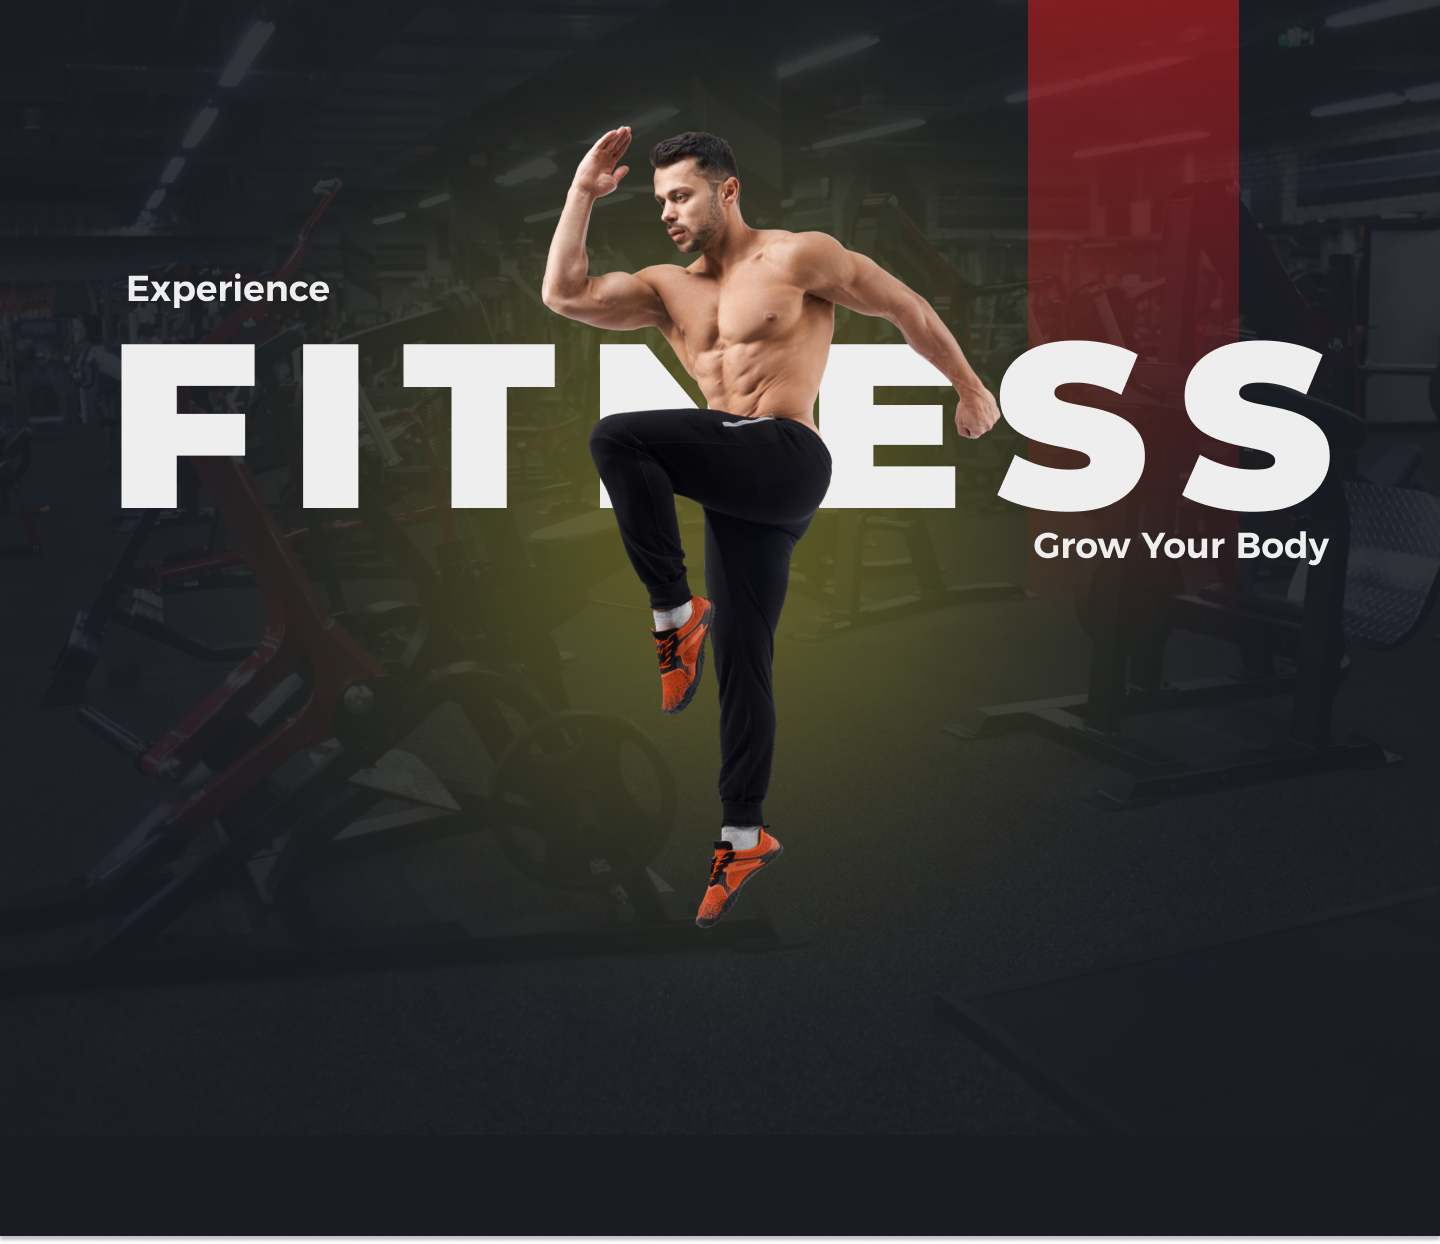
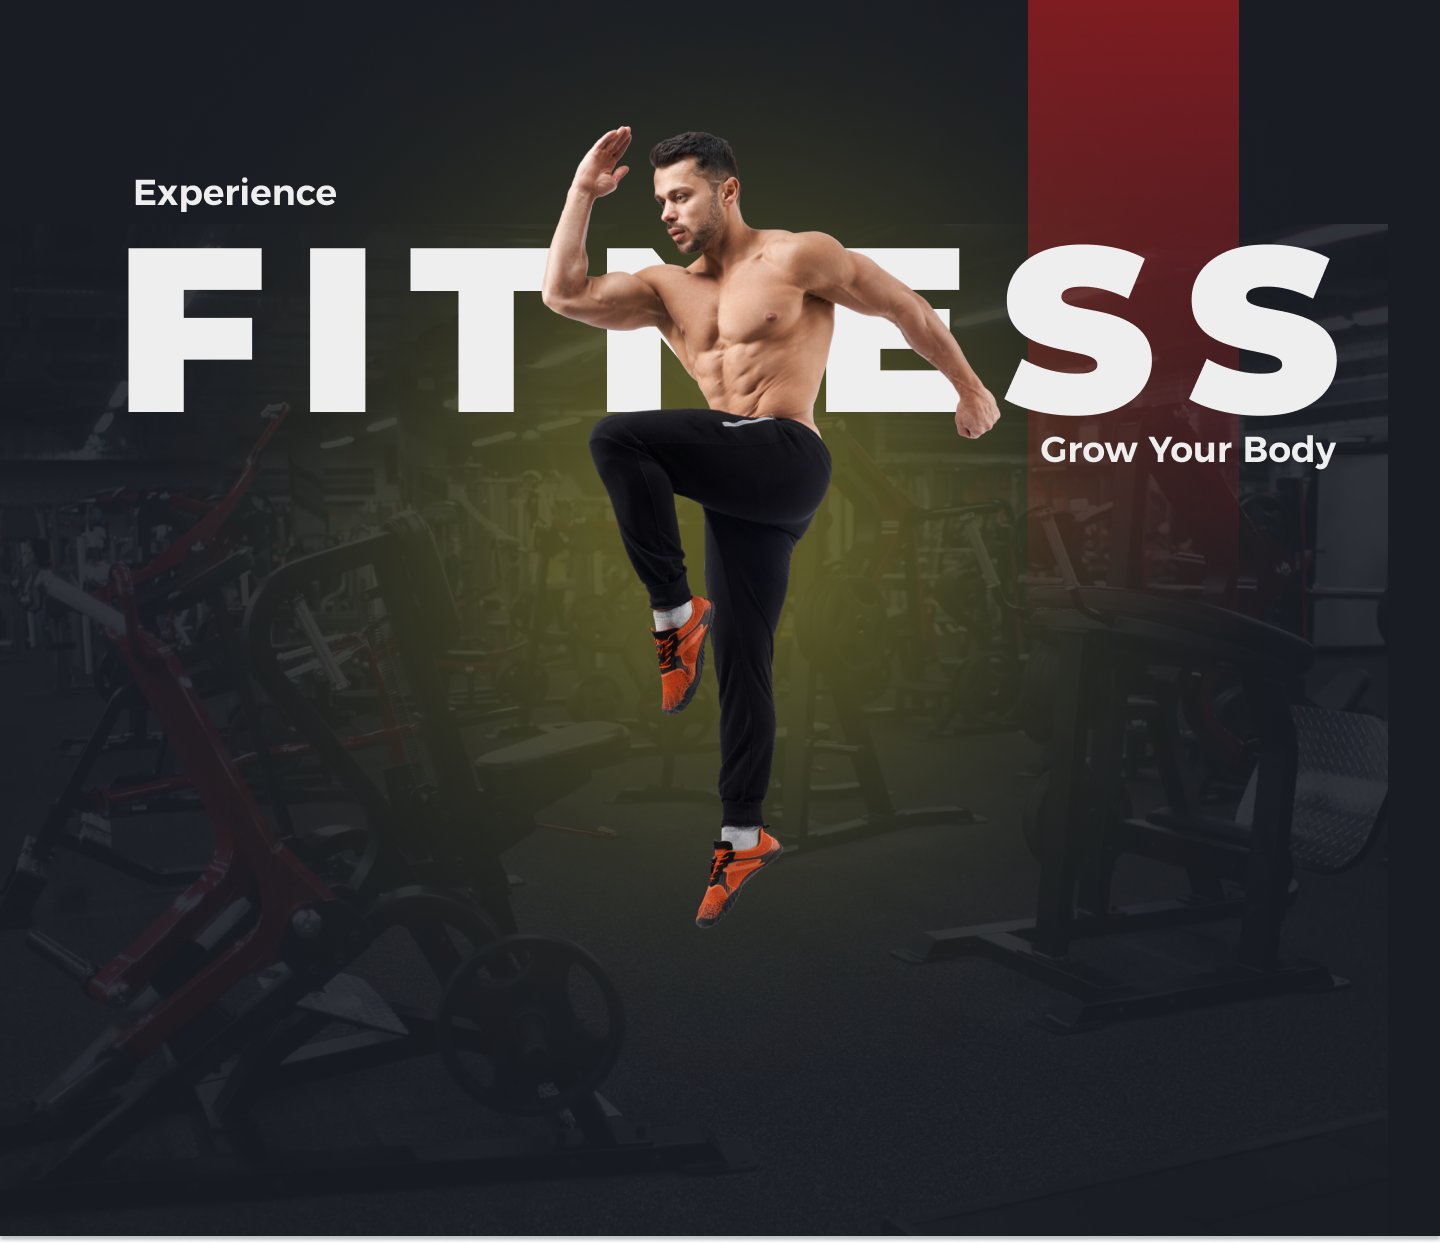
fdf,lzf

Changed region(s): [[0.5625, 0.1833, 0.9375, 0.4582], [0.0625, 0.1222, 0.5, 0.4277], [0.4062, 0.1833, 0.4688, 0.2138]]

diff --git a/css/responsive.css b/css/responsive.css
@@ -14,20 +14,93 @@
 @media only screen and (min-width:1920px) {
 
   .container-fluid {
-    width: 1820px;
+    width: 1903px;
     margin: auto;
+    padding: 0;
   }
+  a.navbar-brand {
+    padding-left: 40px;
+}
   .secover {
     padding: 193px 0px 163px 0px !important; 
 }
 .paddhero2 {
-  padding-top: 573px;
+  padding-top: 553px;
+  padding-left: 50px;
 }
 .bg-tra {
-  margin-top: -122px !important;
+  margin-top: -130px !important;
+  padding-top: 75px;
+  padding-bottom: 50px;
 }
+.feedback-slider-item {
+  position: relative;
+  padding: 10px;
+  margin-top: 0px;
+}
+.thumb-prev {
+  position: absolute;
+  z-index: 99;
+  top: 36%;
+  width: 160px;
+  height: 99px;
+  left: -167px;
+}
+.thumb-next{
+  position: absolute;
+  z-index: 99;
+  top: 36%;
+  width: 160px;
+  height: 99px;
+}
+.footer-bg{
+  background-color: #121110;
+  padding: 60px 30px 30px 30px !important;
+}
+.hero-bg {
+  height: 1180px;
+}
+.bg-tra22 {
+  background-color: #191C23;
+  padding: 90px 10px !important;
 
 }
+.letbgg {
+  background-image: url(../images/letbgg.png);
+  background-repeat: no-repeat;
+  background-size: cover;
+  height: 507px;
+  padding: 100px 60px 10px !important;
+}
+.secvisbgg {
+  background-color: #25201B;
+  padding: 50px 100px !important;
+}
+.secteainer-bg {
+  background-color: #313131;
+  padding: 60px 60px;
+}
+.customer-feedback.pb-5 {
+  padding-top: 50px;
+}
+.marrabout {
+  padding: 0px 100px 60px 100px;
+}
+.blogbgg {
+  padding: 60px;
+}
+.secmaintrainer {
+  padding-top: 65px;
+}
+.blogbgg4 {
+  padding: 90px 50px !important;
+  margin-top: 0px;
+}
+
+
+}
+
+
 
 @media only screen and (max-width:1440px) {
 
@@ -212,7 +285,7 @@ button.navbar-toggler {
 }
 .footer-bg {
   background: #0D141E;
-  padding: 20px 0px 20px 0px;
+  padding: 20px 0px 20px 0px !important;
 }
 .seccont4 p a {
   font-size: 14px;

diff --git a/index.html b/index.html
@@ -69,17 +69,15 @@
                         Our best trainers are committed to guiding you towards your fitness goals with expertise,
                         motivation, and personalized workout plans
                     </p>
-
-                </div>
-                <div class="col-lg-4 align-self-end ">
                     <div class="movesec paddhero">
-
                         <div class="socal-links text-center">
                             <p class="nav-item m-0">
                                 <a class="nav-link px-4 py-2 headermenusec2btn " href="#">Join Now</a>
                             </p>
                         </div>
                     </div>
+                </div>
+                <div class="col-lg-4 align-self-end ">
                 </div>
                 <div class="col-lg-4 paddhero2 text-center">
                     <div class="secmodihid">
@@ -277,7 +275,7 @@
 
     <!-- Extra Services you Get at Marco’s  -->
 
-    <div class="container-fluid bg-tra">
+    <div class="container-fluid bg-tra22">
         <div class="container">
             <div class="row">
                 <div class="col-lg-6">

diff --git a/css/style.css b/css/style.css
@@ -2,12 +2,12 @@
    background-image: url(../images/hero-bg.png);
    background-repeat: no-repeat;
    background-size: cover;
-   height: 1180px;
+   height: 1080px;
 
 }
 
 .paddhero {
-   padding-top: 565px;
+   padding-top: 20px;
 }
 .socal-links {
    display: flex;
@@ -39,13 +39,13 @@
 .paddhero2 p a {
    font-family: "Open Sans";
    font-size: 16px;
-   color: #E41C1F;
+   color: #FFF;
    font-weight: 600;
    text-decoration: none;
 }
 
 .paddhero2 p a:hover {
-   color: #fff;
+   color: #E41C1F;
 }
 
 .headermenusec {
@@ -103,6 +103,11 @@
    margin-top: -40px;
 }
 
+.bg-tra22 {
+   background-color: #191C23;
+   padding: 50px 10px !important;
+  
+}
 .trans h2 {
    font-family: 'Montserrat';
    color: #fff;
@@ -166,7 +171,7 @@
    background-image: url(../images/Placeholder.png);
    background-repeat: no-repeat;
    background-size: cover;
-   padding: 60px 10px;
+   padding: 60px 10px !important;
 }
 
 .ourpr h2 {
